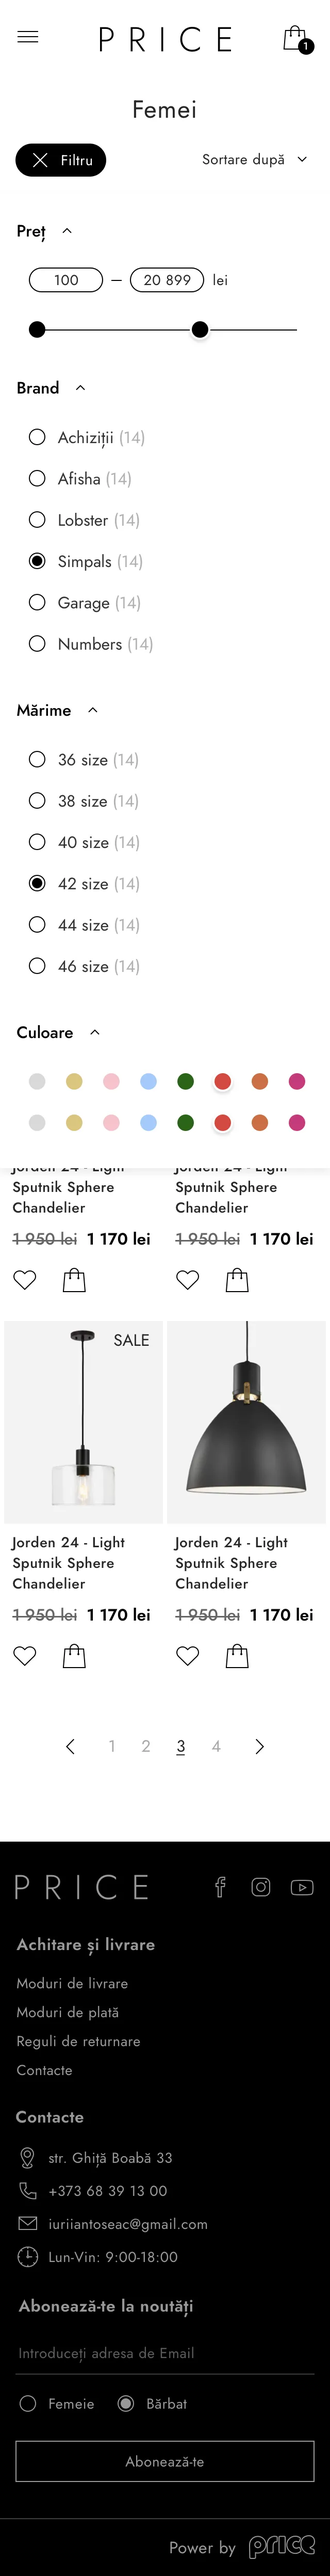
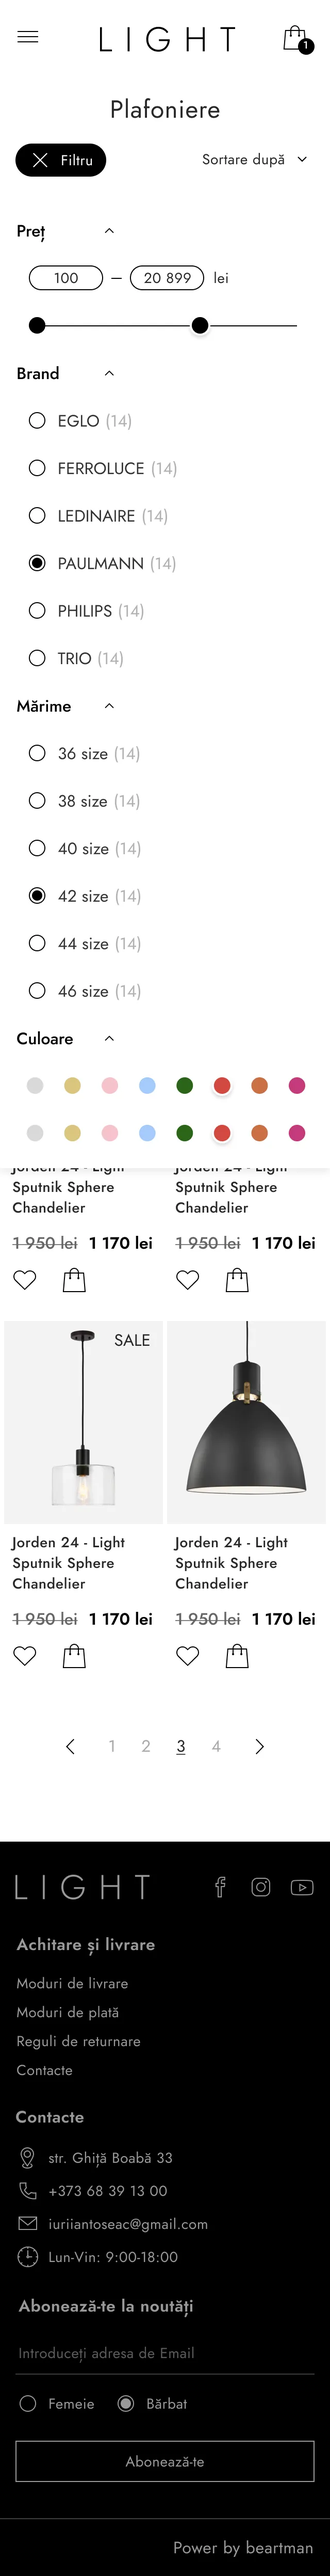
light

diff --git a/index.html b/index.html
@@ -85,7 +85,7 @@
 
             <div class="shop2-cont" id="shop2loc" >
                 <div class="shop2-cont__description">
-                    <p class="title-2-style">Online light shop “Price”</p>
+                    <p class="title-2-style">Online light shop “Light”</p>
                     <p class="paragraph-0-style">As a designer, I had the opportunity to create an online light shop that provides a seamless shopping experience for customers. The sleek and modern design features high-quality images that showcase the products. In addition, I focused on user-friendly navigation and a simple checkout process to ensure a smooth and efficient shopping journey.</p> 
                     <div class="role-date"> 
                         <p class="role" >Product Designer</p> 

diff --git a/styles/shop2project.css b/styles/shop2project.css
@@ -115,7 +115,7 @@
         grid-row-end: span 289;
     }
     .mob_container__card--screen-10 {
-        grid-row-end: span 335;
+        grid-row-end: span 252;
     }
     .mob_container__card--screen-11 {
         grid-row-end: span 195;
